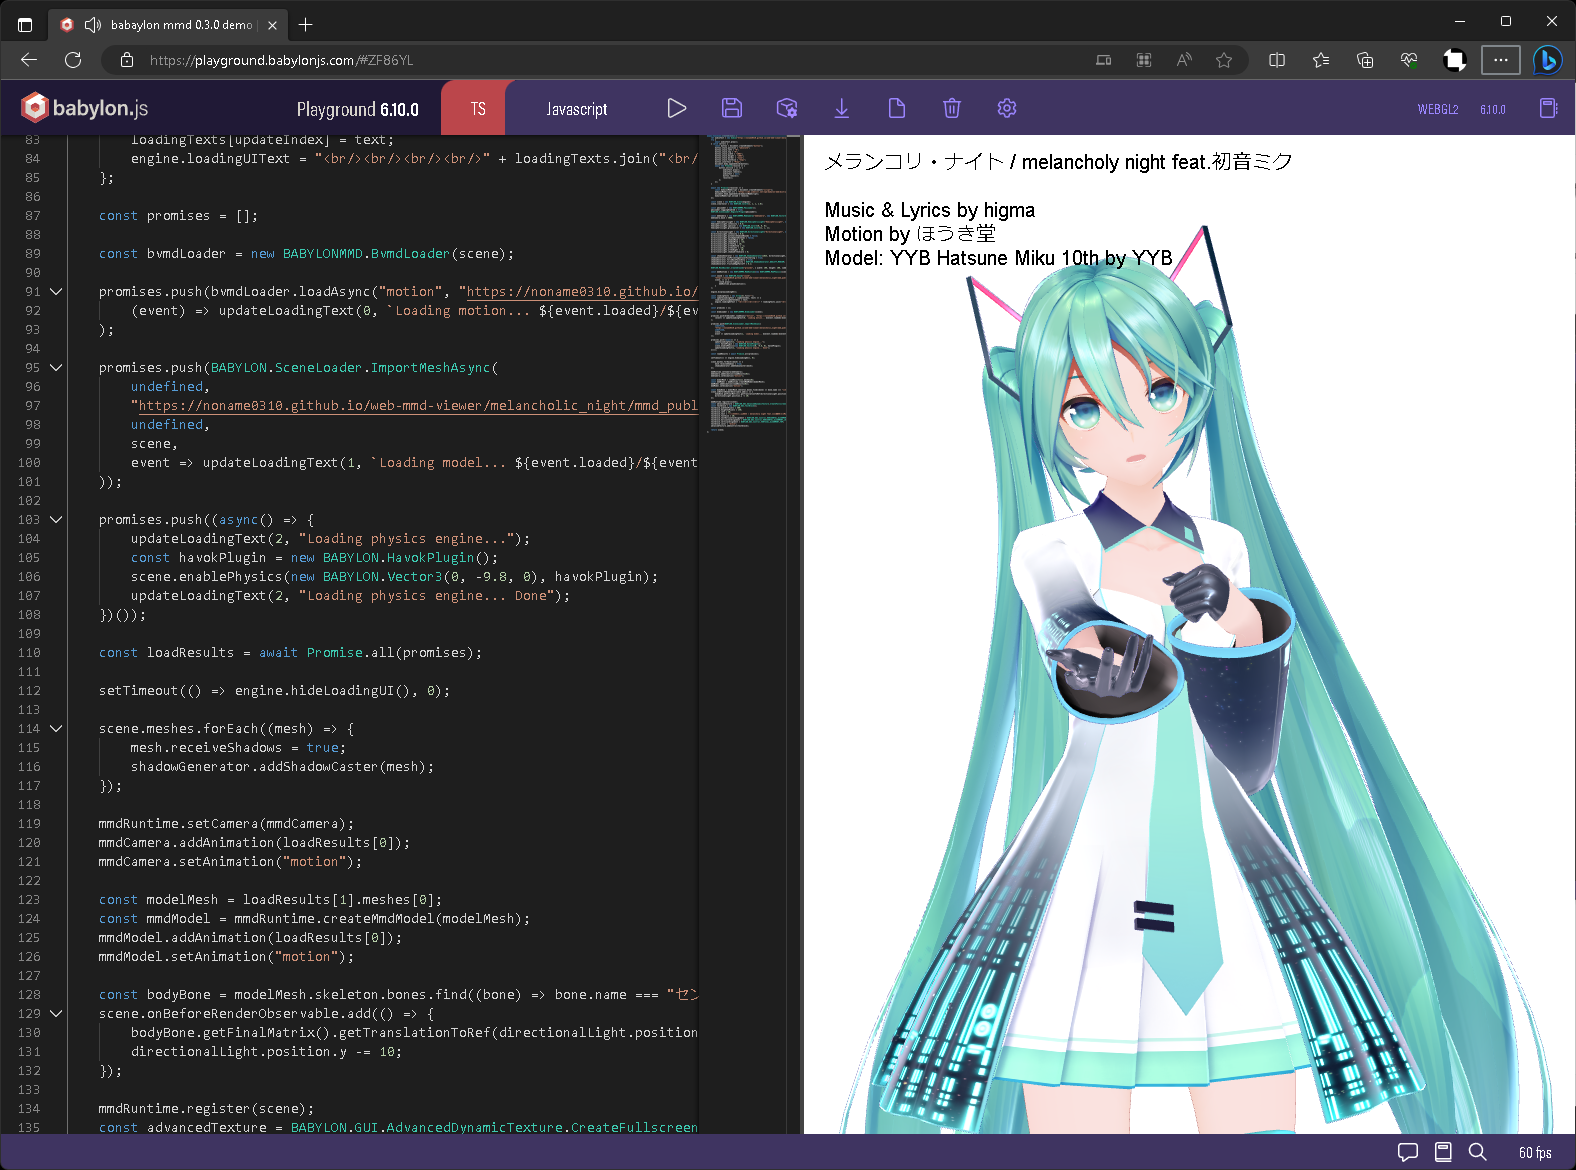
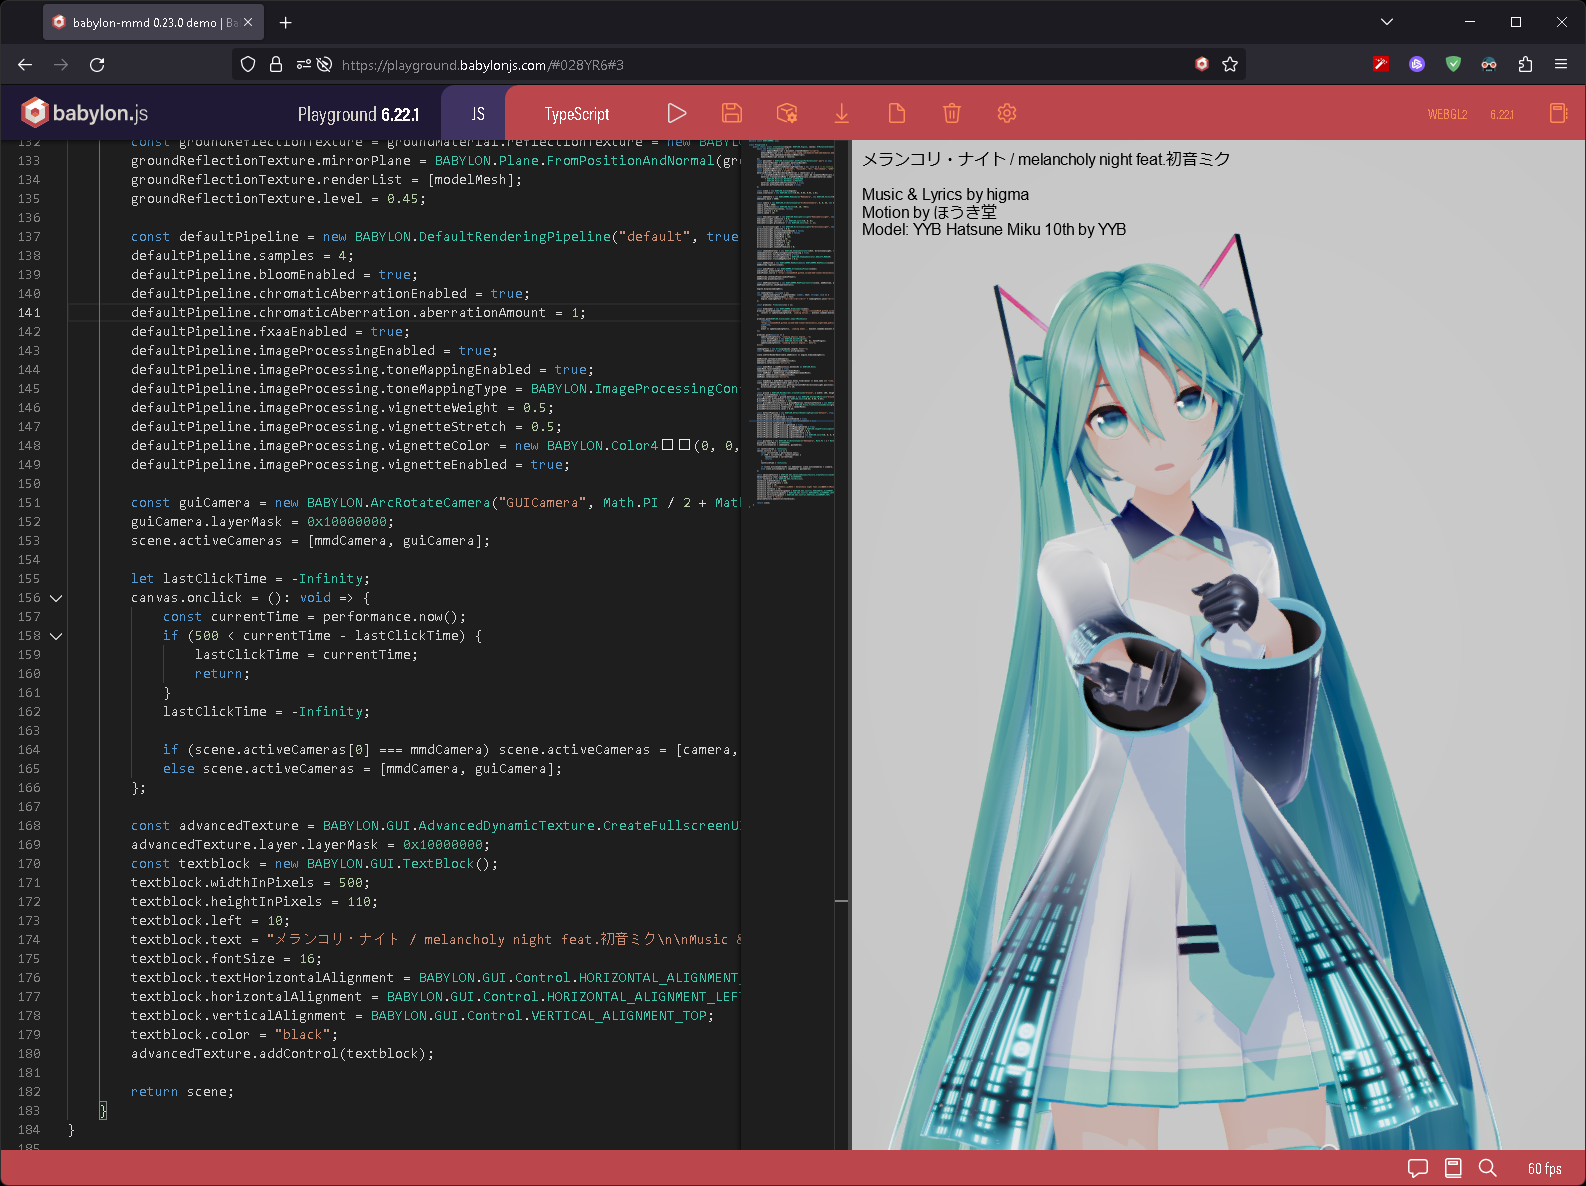
docs: update pg

diff --git a/README.md b/README.md
@@ -18,7 +18,7 @@ Camera: https://www.nicovideo.jp/watch/sm36273873
 
 ![screenshot2](./docs/static/img/fig2.png)
 
-### https://playground.babylonjs.com/#028YR6#1
+### https://playground.babylonjs.com/#028YR6#3
 
 Music: [メランコリ・ナイト](https://youtu.be/y__uZETTuL8)
 
